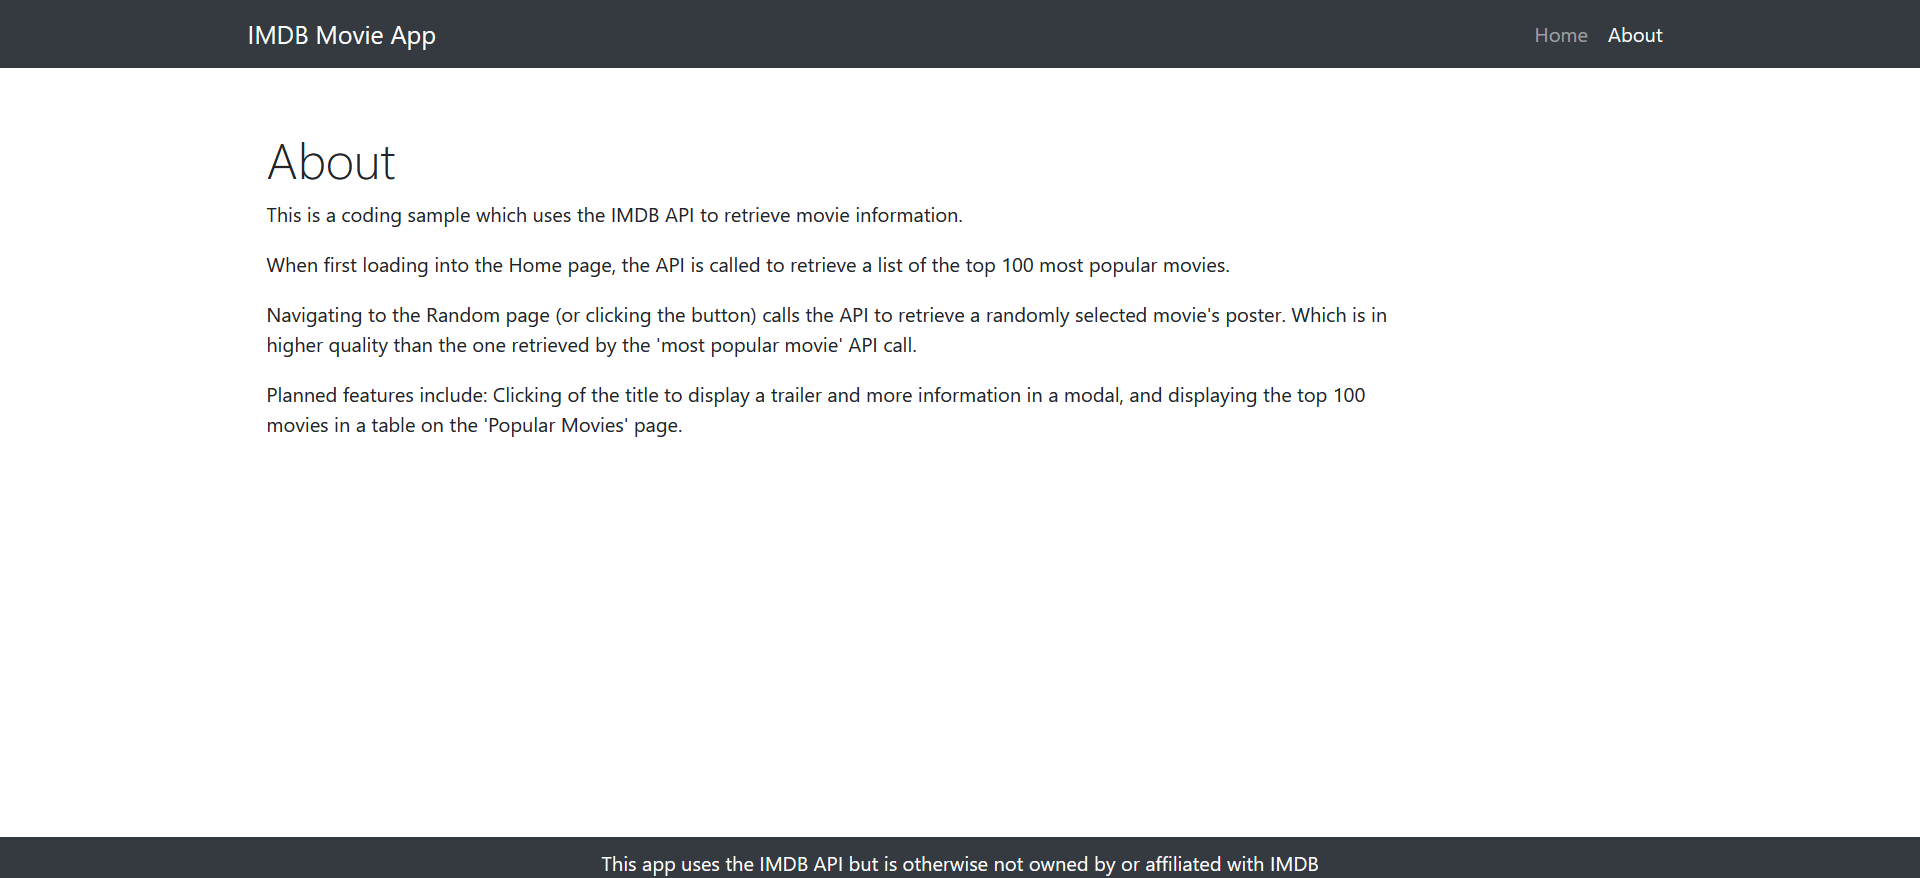
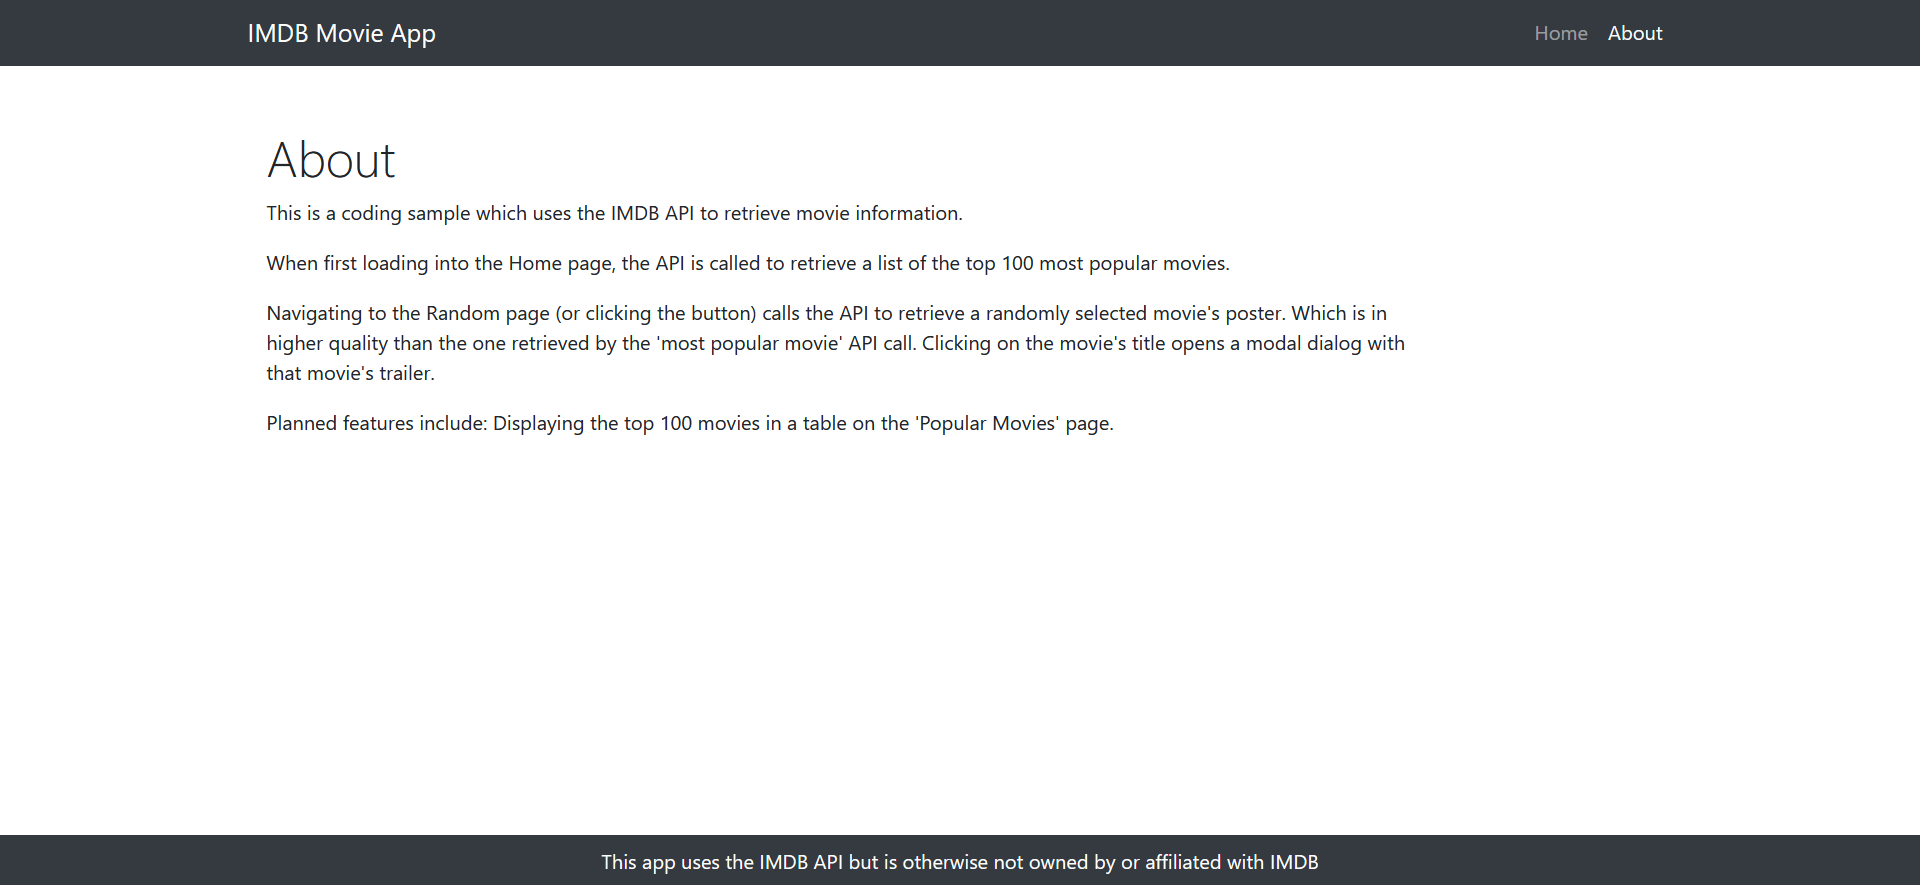
Clicking a Random Movie's title now opens a modal with that movie's trailer

diff --git a/src/components/random/Random.jsx b/src/components/random/Random.jsx
@@ -3,15 +3,25 @@ import axios from 'axios';
 import notFound from './not_found.png';
 import { useLocation } from 'react-router-dom'
 import Button from 'react-bootstrap/Button'
+import TrailerModal from "../trailer-modal/TrailerModal";
 
+/**
+ * Page where a random movie from IMDB's most popular movies appears on load
+ * Users may select the 'New Random Movie' button to get a new random movie
+ * Users may click the title of the movie to see a trailer
+ */
 function Random() {
 
-// State variables
-const [movie, setMovie] = useState({});
-const [movies] = useState(useLocation().state.movies);
-const [poster, setPoster] = useState("");
-const [isLoading, setLoading] = useState(false);
-const [apiKey] = useState(useLocation().state.apiKey);
+  // State variables
+  const [movie, setMovie] = useState({});
+  const [movies] = useState(useLocation().state.movies);
+  const [poster, setPoster] = useState("");
+  const [isLoading, setLoading] = useState(false);
+  const [apiKey] = useState(useLocation().state.apiKey);
+  // Modal Variables
+  const [show, setShow] = useState(false);
+  const handleClose = () => setShow(false);
+  const handleShow = () => setShow(true);
 
   // Gets a random movie from the prop list and sets the states
   function getRandomMovie() {
@@ -45,31 +55,41 @@ const [apiKey] = useState(useLocation().state.apiKey);
 
   return (
     <div className="random">
-      <div className="container" style={{paddingBottom: "50px"}}>
+      <div className="container" style={{paddingBottom: "20px"}}>
         <div className="row align-items-center my-2">
-          <div className="col-lg-7">
+          <div className="col-lg-7" style={{paddingLeft: "200px"}}>
             {
-              isLoading ? <div>Loading...</div>
-              :
+              isLoading ? <div>Loading...</div> :
                 <img
                     className="img-fluid rounded mb-4 mb-lg-0"
                     src={poster}
                     alt=""
+                    style={{height: "600px", width: "400px"}}
                 />
             }
           </div>
           <div className="col-lg-5">
-            <h1 className="font-weight-light">{movie.title}</h1>
+            <h1 className="font-weight-light" 
+            style={{ color: 'darkblue', cursor: 'pointer' }} onClick={handleShow}>
+              <u>{movie.title}</u>
+            </h1>
             <p>
-                Year Released: {movie.year}
+              Year Released: {movie.year}
             </p>
             <p>
-                <Button variant="outline-dark" disabled={isLoading} onClick={getRandomMovie}>
-                    New Random Movie
-                </Button>
+              IMDB Rating: {movie.imDbRating}
+            </p>
+            <p>
+              Rank: {movie.rank}
+            </p>
+            <p>
+              <Button variant="outline-dark" disabled={isLoading} onClick={getRandomMovie}>
+                New Random Movie
+              </Button>
             </p>
           </div>
         </div>
+        <TrailerModal apiKey={apiKey} movie={movie} show={show} handleClose={handleClose}></TrailerModal>
       </div>
     </div>
   );

diff --git a/src/components/about/About.jsx b/src/components/about/About.jsx
@@ -1,5 +1,9 @@
 import React from "react";
 
+/**
+ * Page that gives more detailed information on the app itself
+ * Informs the user of planned/future updates
+ */
 function About() {
   return (
     <div className="about">
@@ -15,11 +19,11 @@ function About() {
             </p>
             <p>
               Navigating to the Random page (or clicking the button) calls the API to retrieve a randomly selected movie's poster.
-              Which is in higher quality than the one retrieved by the 'most popular movie' API call.
+              Which is in higher quality than the one retrieved by the 'most popular movie' API call. Clicking on the movie's title 
+              opens a modal dialog with that movie's trailer.
             </p>
             <p>
-              Planned features include: Clicking of the title to display a trailer and more information in a modal, and 
-              displaying the top 100 movies in a table on the 'Popular Movies' page.
+              Planned features include: Displaying the top 100 movies in a table on the 'Popular Movies' page.
             </p>
           </div>
         </div>

diff --git a/src/components/home/Home.jsx b/src/components/home/Home.jsx
@@ -3,12 +3,15 @@ import logo from './appLogo.png';
 import { Link } from "react-router-dom";
 import axios from 'axios';
 
+/**
+ * Home page from which the main site pages are selected
+ */
 function Home() {
 
   // State variables
   const [isLoading, setLoading] = useState(true);
   const [movies, setMovies] = useState([]);
-  const [apiKey] = useState("k_ll9q08sj")
+  const [apiKey] = useState("k_2cll091q")
 
   // Displays loading text while loading and if movies aren't found displays a not found notice
   function loadDisplay() {

diff --git a/src/components/footer/Footer.jsx b/src/components/footer/Footer.jsx
@@ -1,5 +1,8 @@
 import React from "react";
 
+/**
+ * Displays a warning that the app is not related to IMDB
+ */
 function Footer() {
   return (
     <div className="footer">
